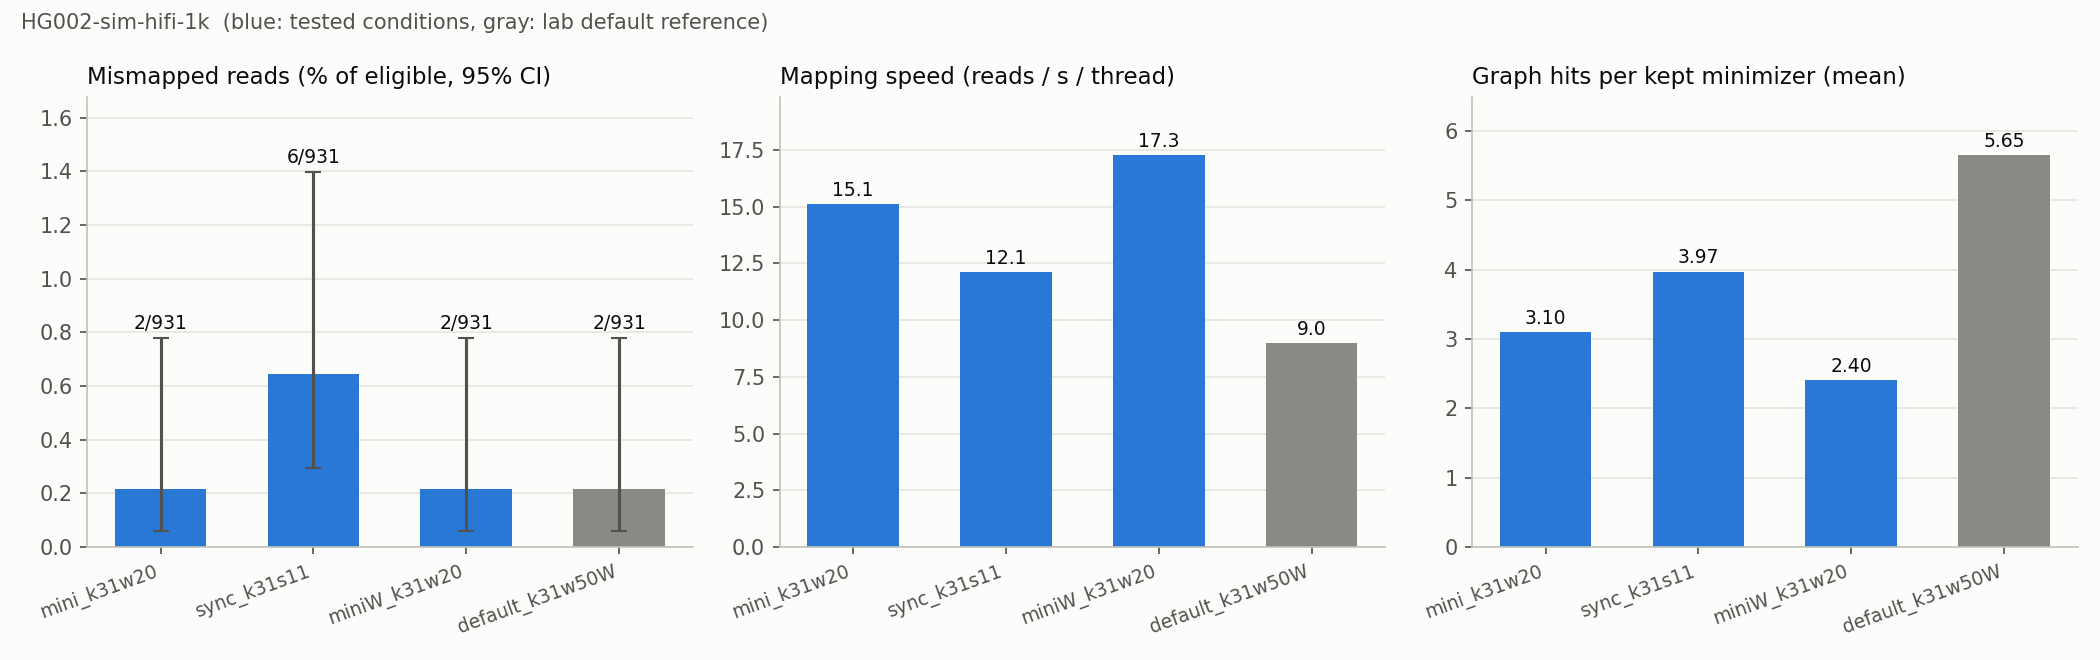
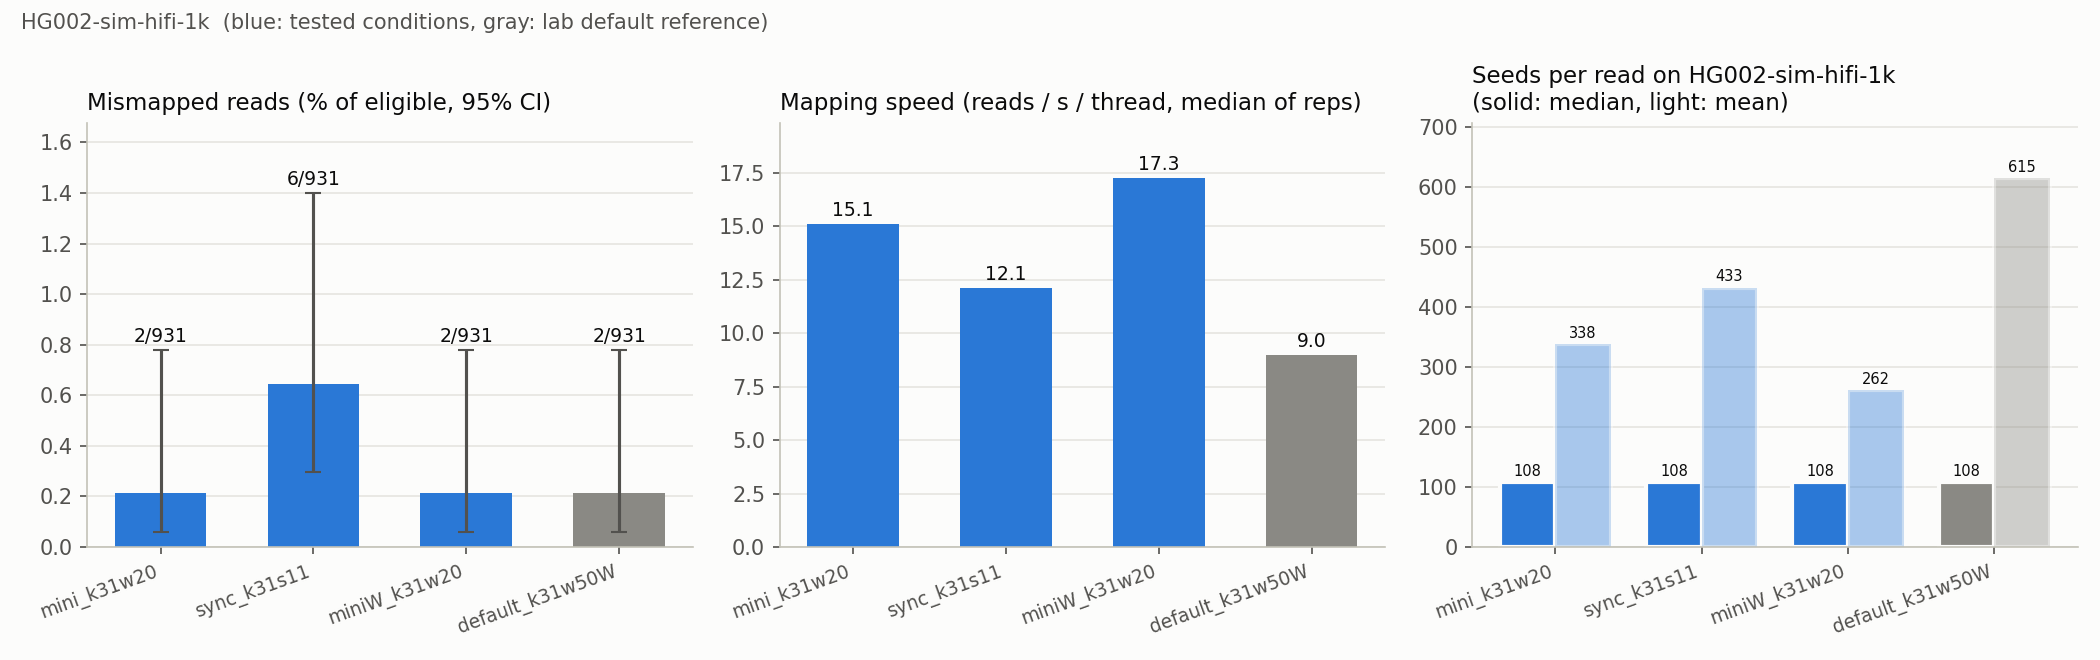
Seed counts per read from the same read set; seeds panel
filters and collect now report seeds per read (stage.seed.results): median,
mean and nearest-rank 90th percentile, in minimizer_summary.tsv and
results.tsv. collect only uses the density run of the same read set (no
fallback to 1k; density_reads_source removed) and leaves seed columns NA
without one. The third panel of comparison.png now shows median and mean
seeds per read and is left out when no density run exists. README updated:
run density and filters per read set. Refreshes the 1k snapshot.

diff --git a/seed_eval.py b/seed_eval.py
@@ -284,10 +284,16 @@ if [ -s $D/prov.gam ]; then
         END {{ for (i = 1; i <= n; i++) {{ split(order[i], k, SUBSEP)
             print name, k[1], k[2], k[3], passed[order[i]], failed[order[i]] }} }}' $D/filter_lines.tmp \\
         | sort -t$'\\t' -k2,2n > $D/filters.tsv
-    awk -F'\\t' -v OFS='\\t' -v name={c['name']} '$1 == "R" && $3 != "NA" {{ reads++; picked += $2; kept += $3; hits += $4 }}
+    # Seeds per read (stage.seed.results) from per_read.tsv: median, mean, nearest-rank 90th percentile.
+    read SEED_MEDIAN SEED_MEAN SEED_P90 < <(awk -F'\\t' 'NR > 1 && $4 != "NA" {{ print $4 }}' $D/per_read.tsv | sort -n \\
+        | awk '{{ a[NR] = $1; s += $1 }} END {{ k = int(0.9 * NR); if (k < 0.9 * NR) k++
+              print (NR % 2 ? a[(NR + 1) / 2] : (a[NR / 2] + a[NR / 2 + 1]) / 2), s / NR, a[k] }}')
+    awk -F'\\t' -v OFS='\\t' -v name={c['name']} -v med="$SEED_MEDIAN" -v mean="$SEED_MEAN" -v p90="$SEED_P90" \\
+        '$1 == "R" && $3 != "NA" {{ reads++; picked += $2; kept += $3; hits += $4 }}
         END {{ print "name", "reads", "picked_minimizers", "kept_minimizers", "kept_minimizer_hits",
-                     "kept_minimizers_per_read", "mean_hits_per_kept_minimizer"
-               print name, reads, picked, kept, hits, kept / reads, hits / kept }}' $D/filter_lines.tmp > $D/minimizers.tsv
+                     "kept_minimizers_per_read", "mean_hits_per_kept_minimizer",
+                     "seeds_per_read_median", "seeds_per_read_mean", "seeds_per_read_p90"
+               print name, reads, picked, kept, hits, kept / reads, hits / kept, med, mean, p90 }}' $D/filter_lines.tmp > $D/minimizers.tsv
     rm $D/filter_lines.tmp
     cat $D/filters.tsv >> $OUT/filter_summary.tsv.tmp
     tail -n +2 $D/minimizers.tsv >> $OUT/minimizer_summary.tsv.tmp
@@ -298,7 +304,7 @@ fi
     return sbatch_header(f"filters-{reads_set}", "4G", "00:30:00", log, partition="short", cpus=1) + f"""command -v jq > /dev/null || {{ echo "jq not found on $(hostname)" >&2; exit 1; }}
 OUT={out_dir}
 printf 'name\\torder\\tfilter\\tstage\\tpassed\\tfailed\\n' > $OUT/filter_summary.tsv.tmp
-printf 'name\\treads\\tpicked_minimizers\\tkept_minimizers\\tkept_minimizer_hits\\tkept_minimizers_per_read\\tmean_hits_per_kept_minimizer\\n' \\
+printf 'name\\treads\\tpicked_minimizers\\tkept_minimizers\\tkept_minimizer_hits\\tkept_minimizers_per_read\\tmean_hits_per_kept_minimizer\\tseeds_per_read_median\\tseeds_per_read_mean\\tseeds_per_read_p90\\n' \\
     > $OUT/minimizer_summary.tsv.tmp
 {body}
 mv $OUT/filter_summary.tsv.tmp $OUT/filter_summary.tsv
@@ -315,7 +321,8 @@ RESULT_COLUMNS = [
     "reads_per_sec_per_thread", "speed_min", "speed_max", "reps", "reps_consistent",
     "giraffe_mem_gb", "giraffe_wall_s",
     "index_min_gb", "index_zipcodes_gb", "index_build_min", "index_peak_gib",
-    "occurrences", "density_graph", "density_reads", "density_reads_source",
+    "occurrences", "density_graph", "density_reads",
+    "seeds_per_read_median", "seeds_per_read_mean", "seeds_per_read_p90",
     "kept_minimizers_per_read", "mean_hits_per_kept_minimizer",
 ]
 
@@ -411,20 +418,27 @@ def collect_row(c, reads_set, graph_length):
         if row["occurrences"] is not None and graph_length:
             row["density_graph"] = row["occurrences"] / graph_length
 
-    # Seed density is a property of the scheme, so fall back to the default read set's measurement.
-    for source in dict.fromkeys([reads_set, DEFAULT_READS.stem]):
-        summary = read_density_summary(DATA_DIR / "results" / source / c["name"] / "density" / "density_summary.tsv")
-        if summary is not None:
-            row["density_reads"] = float(summary["density_pooled"])
-            row["density_reads_source"] = source
-            break
-    for source in dict.fromkeys([reads_set, DEFAULT_READS.stem]):
-        summary = read_density_summary(DATA_DIR / "results" / source / c["name"] / "density" / "minimizers.tsv")
-        if summary is not None:
-            row["kept_minimizers_per_read"] = float(summary["kept_minimizers_per_read"])
-            row["mean_hits_per_kept_minimizer"] = float(summary["mean_hits_per_kept_minimizer"])
-            break
+    # Seed statistics come from the density run on this same read set only; without it they stay NA.
+    density_dir = DATA_DIR / "results" / reads_set / c["name"] / "density"
+    summary = read_density_summary(density_dir / "density_summary.tsv")
+    if summary is not None:
+        row["density_reads"] = float(summary["density_pooled"])
+        row.update(seed_stats(density_dir / "per_read.tsv"))
+    summary = read_density_summary(density_dir / "minimizers.tsv")
+    if summary is not None:
+        row["kept_minimizers_per_read"] = float(summary["kept_minimizers_per_read"])
+        row["mean_hits_per_kept_minimizer"] = float(summary["mean_hits_per_kept_minimizer"])
     return row
+
+
+def seed_stats(per_read):
+    """Median, mean and nearest-rank 90th percentile of seeds per read (stage.seed.results)."""
+    with open(per_read, newline="") as f:
+        seeds = sorted(int(r["seeds"]) for r in csv.DictReader(f, delimiter="\t") if r["seeds"] != "NA")
+    if not seeds:
+        return {}
+    return {"seeds_per_read_median": statistics.median(seeds), "seeds_per_read_mean": statistics.mean(seeds),
+            "seeds_per_read_p90": seeds[math.ceil(0.9 * len(seeds)) - 1]}
 
 
 def format_value(value):
@@ -455,7 +469,10 @@ def plot_comparison(rows, path, reads_set):
     colors = [reference_color if r["density_group"] == "reference" else test_color for r in rows]
     x = range(len(rows))
 
-    fig, (ax_err, ax_speed, ax_hits) = plt.subplots(1, 3, figsize=(14, 4.4))
+    # The seeds panel needs this read set's density runs; leave it out if none exist.
+    has_seeds = any(r.get("seeds_per_read_median") is not None for r in rows)
+    fig, axes = plt.subplots(1, 3 if has_seeds else 2, figsize=(14 if has_seeds else 10, 4.4))
+    ax_err, ax_speed = axes[0], axes[1]
     error = [100 * r["wrong"] / r["eligible"] for r in rows]
     bounds = [wilson_interval(r["wrong"], r["eligible"]) for r in rows]
     yerr = [[e - 100 * lo for e, (lo, hi) in zip(error, bounds)],
@@ -477,15 +494,25 @@ def plot_comparison(rows, path, reads_set):
     ax_speed.set_title("Mapping speed (reads / s / thread, median of reps)", fontsize=11, color=ink, loc="left")
     ax_speed.set_ylim(0, 1.15 * max(speed))
 
-    hits = [r.get("mean_hits_per_kept_minimizer") or 0 for r in rows]
-    ax_hits.bar(x, hits, color=colors, width=0.6)
-    for i, h in zip(x, hits):
-        ax_hits.annotate(f"{h:.2f}", (i, h), xytext=(0, 4), textcoords="offset points",
-                         ha="center", fontsize=9, color=ink)
-    ax_hits.set_title("Graph hits per kept minimizer (mean)", fontsize=11, color=ink, loc="left")
-    ax_hits.set_ylim(0, 1.15 * max(hits) if max(hits) > 0 else 1)
+    if has_seeds:
+        # Solid bar: median seeds per read; light bar: mean (pulled up by a few repetitive reads).
+        ax_seeds = axes[2]
+        width = 0.38
+        for i, r in zip(x, rows):
+            for offset, stat, alpha in ((-width / 2, "median", 1.0), (width / 2, "mean", 0.4)):
+                value = r.get(f"seeds_per_read_{stat}")
+                if value is None:
+                    continue
+                ax_seeds.bar(i + offset, value, width=width, color=colors[i], alpha=alpha,
+                             edgecolor="#fcfcfb", linewidth=2)
+                ax_seeds.annotate(f"{value:.0f}", (i + offset, value), xytext=(0, 3), textcoords="offset points",
+                                  ha="center", fontsize=7, color=ink)
+        top = max(r.get("seeds_per_read_mean") or 0 for r in rows)
+        ax_seeds.set_ylim(0, 1.15 * top if top > 0 else 1)
+        ax_seeds.set_title(f"Seeds per read on {reads_set}\n(solid: median, light: mean)",
+                           fontsize=11, color=ink, loc="left")
 
-    for ax in (ax_err, ax_speed, ax_hits):
+    for ax in axes:
         ax.set_xticks(list(x))
         ax.set_xticklabels(names, rotation=20, ha="right", fontsize=9, color=ink)
         ax.set_facecolor("#fcfcfb")
@@ -521,6 +548,10 @@ def collect(conditions, reads, snapshot=False):
     print(f"wrote {table} ({len(rows)} conditions)")
     if skipped:
         print(f"skipped (no map results for {reads_set}): {[r['name'] for r in skipped]}")
+    no_density = [r["name"] for r in rows if r.get("seeds_per_read_median") is None]
+    if no_density:
+        print(f"no density run on {reads_set} for {no_density}: their seed columns are NA"
+              + ("" if len(no_density) < len(rows) else " and the seeds panel is left out"))
     inconsistent = [r["name"] for r in rows if r.get("reps_consistent") == "no"]
     if inconsistent:
         print(f"WARNING: replicates disagree on the number of correct reads: {inconsistent}")

diff --git a/README.md b/README.md
@@ -111,8 +111,8 @@ scripts to `DATA_DIR/jobs/` and prints them; add `--submit` to submit.
 |---|---|---|
 | index | `python3 seed_eval.py index [--force] --submit` | `indexes/<name>.min`, `.zipcodes`, `.params`; skipped if already built with the same parameters |
 | map | `python3 seed_eval.py map --reads GAM [--reps N] --submit` | `results/<reads>/<name>/`: `mapped.gam`, `annot.gam`, `compare.tsv`, `gamcompare.txt`, `giraffe.log`, `stats.txt`, `*.time`, `report.tsv`, `run_info.tsv` |
-| density | `python3 seed_eval.py density --submit` | `results/<reads>/<name>/density/`: `prov.gam`, `per_read.tsv`, `density_summary.tsv` |
-| filters | `python3 seed_eval.py filters --submit` | one job for all conditions: `results/<reads>/filter_summary.tsv`, `minimizer_summary.tsv` (+ per-condition copies in `density/`) |
+| density | `python3 seed_eval.py density --reads GAM --submit` | `results/<reads>/<name>/density/`: `prov.gam`, `per_read.tsv`, `density_summary.tsv` |
+| filters | `python3 seed_eval.py filters --reads GAM --submit` | one job for all conditions: `results/<reads>/filter_summary.tsv`, `minimizer_summary.tsv` (+ per-condition copies in `density/`) |
 | collect | `python3 seed_eval.py collect --reads GAM [--snapshot]` | runs locally: `results/<reads>/results.tsv`, `comparison.png`; `--snapshot` copies them and the filter/minimizer summaries to `results_summary/<reads>/` |
 
 What each job runs:
@@ -123,14 +123,14 @@ What each job runs:
   `vg gamcompare --range 200 -T` against the truth GAM, and `vg stats -a`.
   With `--reps N` it runs N times into `rep1..N/` (for timing); replicates 2..N
   delete their GAMs after their statistics are written.
-- **density**: giraffe with `--track-provenance` on the 1k reads; for each read,
+- **density**: giraffe with `--track-provenance` on the read set; for each read,
   `stage.minimizer.results` (seeds the scheme picks in the read, before giraffe's
   filters) and `stage.seed.results` (graph hits of the minimizers giraffe keeps).
-  Seed density is a property of the scheme, so it is measured once on 1k reads and
-  reused for larger read sets.
-- **filters**: per giraffe funnel filter, how many minimizers pass and fail.
+  Run it on every read set: `collect` only uses the density run of the same read set.
+- **filters**: per giraffe funnel filter, how many minimizers pass and fail, plus
+  seeds per read (median, mean, 90th percentile).
 
-Typical order: index → density (1k) and map (each read set) → filters → collect.
+Typical order: index → for each read set: map and density → filters → collect.
 
 ## Outputs
 
@@ -152,21 +152,26 @@ Typical order: index → density (1k) and map (each read set) → filters → co
 | `index_min_gb`, `index_zipcodes_gb`, `index_build_min`, `index_peak_gib` | index sizes, build time and peak memory |
 | `occurrences` | `Minimizer occurrences` reported by `vg minimizer` |
 | `density_graph` | `occurrences / graph length` (graph length from `graph_length.sbatch`) |
-| `density_reads`, `density_reads_source` | **main density measure**: seeds picked per bp of read (`stage.minimizer.results / length`), and the read set it was measured on |
+| `density_reads` | **main density measure**: seeds picked per bp of read (`stage.minimizer.results / length`) |
+| `seeds_per_read_median`, `seeds_per_read_mean`, `seeds_per_read_p90` | seeds per read (`stage.seed.results`, graph hits of the kept minimizers): median, mean and nearest-rank 90th percentile |
 | `kept_minimizers_per_read` | minimizers left after giraffe's filters, per read |
 | `mean_hits_per_kept_minimizer` | `stage.seed.results / kept minimizers`: how many graph hits each kept minimizer has on average |
 
 ### Plots
 
 `comparison.png` has one bar per condition: mismapped reads as % of eligible with a
-95% Wilson interval (labelled `wrong/eligible`), mapping speed, and mean graph hits
-per kept minimizer. Blue bars are tested conditions, gray is the `reference` group.
+95% Wilson interval (labelled `wrong/eligible`), mapping speed, and seeds per read on
+the same read set (solid bar: median, light bar: mean). Blue bars are tested
+conditions, gray is the `reference` group. Seed columns are only filled from a density
+run on the same read set; without one they are `NA`, and if no condition has one the
+seeds panel is left out.
 
 ### Filter summaries
 
 `filter_summary.tsv` lists, per condition and giraffe funnel filter, the number of
 items passing and failing; the `minimizer` stage filters act on minimizers.
-`minimizer_summary.tsv` gives picked, kept and hit counts per condition.
+`minimizer_summary.tsv` gives picked, kept and hit counts and seeds per read
+(median, mean, 90th percentile) per condition.
 
 ### Note on speed
 
